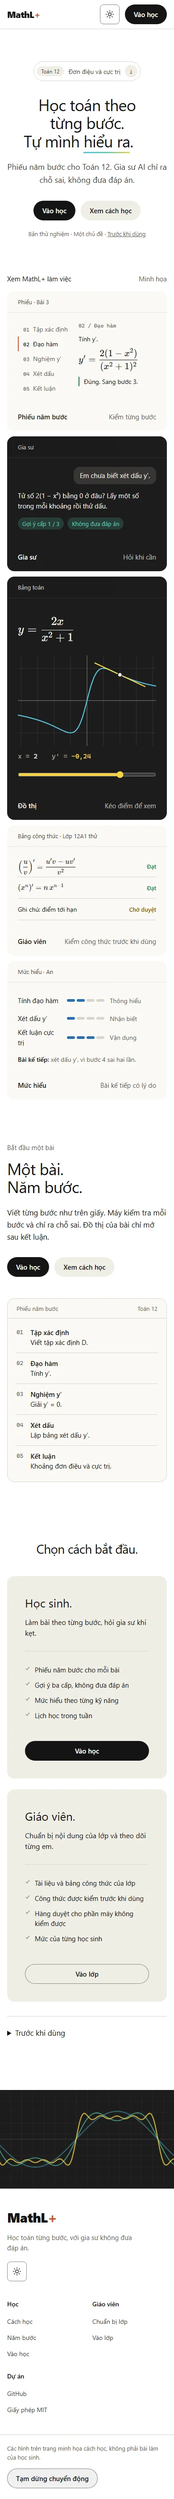
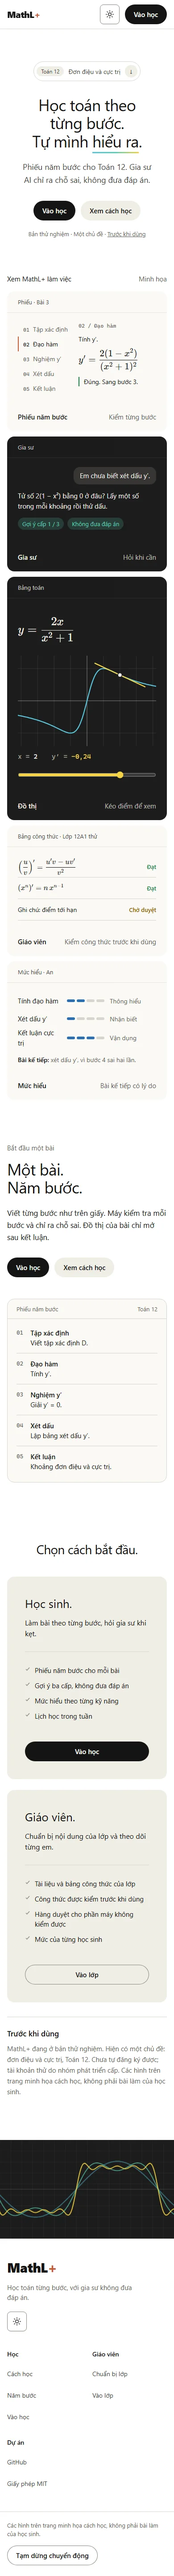
fix(frontend): trang công khai — từ xoay căn giữa không chồng chữ, neo dưới thanh trên, nút tạm dừng đúng màu
Theo lượt kiểm độc lập trên 45dcf62 (PASS+NOTES):
- Từ xoay: ô rộng bằng từ đang hiện (đo sau mỗi lần vẽ và khi cỡ chữ đổi), co giãn
  400 ms; từ cũ mờ 180 ms rồi từ mới hiện sau 160 ms. Đo 160 mẫu: lệch tâm 0 px lúc
  đứng yên, không mẫu nào hai từ cùng hiện (trước: 14 / 258, lệch tới 34 px).
- `scroll-padding-top` cho trang `/`: #xem, #nam-buoc, #chon đáp dưới thanh trên;
  «Trước khi dùng» là đoạn hiện sẵn thay cho `details` đóng.
- `.vien` đặt `background: none`: nút «Tạm dừng chuyển động» hết là nút xám mặc định
  (chữ tối 4,34 : 1 trước đó).
- Liên kết chân trang cao 44 px; mô tả mở đầu ngắt dòng cân.
- Chữ đúng sản phẩm: «Chưa tự đăng ký được; tài khoản thử do nhóm phát triển cấp».
- DESIGN.md «Trang công khai» và ngoại lệ nút viên, apps/frontend/AGENTS.md ghi theo
  trang mới, để agent sau không làm ngược lại.
- Test mới: giảm chuyển động thì từ đứng yên từ đầu. Vitest 84/84.

Claude-Session: https://claude.ai/code/session_01F11cT1CrYCuKSfz35MhcrX

diff --git a/apps/frontend/src/app/features/trang-chu/trang-chu.ts b/apps/frontend/src/app/features/trang-chu/trang-chu.ts
@@ -1,4 +1,4 @@
-import { Component, computed, DestroyRef, effect, inject, signal } from '@angular/core';
+import { afterRenderEffect, Component, computed, DestroyRef, effect, ElementRef, inject, signal, viewChild } from '@angular/core';
 import { RouterLink } from '@angular/router';
 import { BrandMark } from '../../shared/ui/brand-mark';
 import { DoiGiaoDien } from '../../shared/ui/doi-giao-dien';
@@ -29,6 +29,10 @@ export class TrangChu {
     typeof matchMedia === 'function' && matchMedia('(prefers-reduced-motion: reduce)').matches,
   );
   protected readonly chay = computed(() => !this.tamDung() && !this.giamChuyenDong());
+  /** Bề ngang ô từ xoay = bề ngang từ đang hiện, để dòng luôn căn giữa; null trước lần đo đầu (ô rộng bằng từ dài nhất). */
+  protected readonly rongTu = signal<number | null>(null);
+  private readonly xoay = viewChild.required<ElementRef<HTMLElement>>('xoay');
+  private readonly coChu = signal(0);
 
   constructor() {
     if (typeof matchMedia === 'function') {
@@ -36,6 +40,17 @@ export class TrangChu {
       const nghe = (e: MediaQueryListEvent) => this.giamChuyenDong.set(e.matches);
       mq.addEventListener('change', nghe);
       inject(DestroyRef).onDestroy(() => mq.removeEventListener('change', nghe));
+    }
+    afterRenderEffect(() => {
+      this.coChu();
+      const tu = this.xoay().nativeElement.querySelectorAll<HTMLElement>(':scope > span')[this.viTri()];
+      if (tu?.scrollWidth) this.rongTu.set(tu.scrollWidth);
+    });
+    // Cỡ chữ tiêu đề theo bề ngang màn (clamp): màn đổi cỡ thì đo lại. jsdom (test) không có ResizeObserver.
+    if (typeof ResizeObserver === 'function') {
+      const quanSat = new ResizeObserver(() => this.coChu.update((n) => n + 1));
+      afterRenderEffect(() => quanSat.observe(this.xoay().nativeElement.parentElement!));
+      inject(DestroyRef).onDestroy(() => quanSat.disconnect());
     }
     effect((onCleanup) => {
       if (!this.chay()) return;

diff --git a/apps/frontend/src/app/features/trang-chu/phan-bat-dau.ts b/apps/frontend/src/app/features/trang-chu/phan-bat-dau.ts
@@ -12,7 +12,7 @@ const NAM_BUOC = [
 
 /**
  * Nửa dưới trang công khai theo trang Wiii (meiiie-design-kit, examples/wiii): «Bắt đầu» (chữ trái, thẻ năm bước phải),
- * «Chọn cách bắt đầu» (hai thẻ kem cho học sinh và giáo viên), «Trước khi dùng» (giới hạn của bản thử).
+ * «Chọn cách bắt đầu» (hai thẻ kem cho học sinh và giáo viên), «Trước khi dùng» (giới hạn của bản thử, hiện sẵn để liên kết ở đầu trang dẫn tới đúng chỗ).
  */
 @Component({
   selector: 'app-phan-bat-dau',
@@ -69,13 +69,13 @@ const NAM_BUOC = [
           <a class="vien vien-vien" routerLink="/dang-nhap">Vào lớp</a>
         </article>
       </div>
-      <details id="truoc-khi-dung">
-        <summary>Trước khi dùng</summary>
+      <div id="truoc-khi-dung" class="truoc">
+        <h3>Trước khi dùng</h3>
         <p>
-          MathL+ đang ở bản thử nghiệm. Hiện có một chủ đề: đơn điệu và cực trị, Toán 12. Tài khoản do thầy cô cấp cho
-          lớp. Các hình trên trang minh họa cách học, không phải bài làm của học sinh.
+          MathL+ đang ở bản thử nghiệm. Hiện có một chủ đề: đơn điệu và cực trị, Toán 12. Chưa tự đăng ký được; tài
+          khoản thử do nhóm phát triển cấp. Các hình trên trang minh họa cách học, không phải bài làm của học sinh.
         </p>
-      </details>
+      </div>
     </section>
   `,
   styleUrl: './phan-bat-dau.css',

diff --git a/apps/frontend/src/app/features/trang-chu/trang-chu.css b/apps/frontend/src/app/features/trang-chu/trang-chu.css
@@ -114,10 +114,11 @@ h1 {
   text-wrap: balance;
 }
 
-/* Mọi từ (kèm dấu chấm) chồng trong một ô lưới, bám trái: bề ngang là của từ dài nhất nên đổi từ không làm dòng
-   nhảy; vạch màu Manim chỉ nằm dưới chữ của từ đang hiện. */
+/* Mọi từ (kèm dấu chấm) chồng trong một ô lưới, bám trái. Bề ngang ô đặt bằng từ đang hiện (đo ở TrangChu) và co
+   giãn mượt như trang Wiii, nên dòng luôn căn giữa. Từ cũ mờ đi trước, từ mới hiện sau, không chồng nhau. */
 .xoay {
   display: inline-grid;
+  transition: width 400ms var(--ease);
 }
 
 .xoay > span {
@@ -125,14 +126,17 @@ h1 {
   justify-self: start;
   opacity: 0;
   transform: translateY(0.3em);
+  white-space: nowrap;
   transition:
-    opacity 400ms var(--ease),
-    transform 400ms var(--ease);
+    opacity 180ms var(--ease),
+    transform 180ms var(--ease);
 }
 
 .xoay > span.hien {
   opacity: 1;
   transform: none;
+  transition-duration: 400ms;
+  transition-delay: 160ms;
 }
 
 .gach {
@@ -143,6 +147,7 @@ h1 {
 .mo-ta {
   max-width: 34rem;
   margin: 24px auto 0;
+  text-wrap: balance;
   color: var(--ink-2);
   font-size: 18px;
   line-height: 29px;
@@ -209,7 +214,7 @@ h1 {
 .cot a {
   display: inline-flex;
   align-items: center;
-  min-height: 32px;
+  min-height: var(--target);
 }
 
 .chan-duoi {

diff --git a/apps/frontend/src/app/features/trang-chu/trang-chu.spec.ts b/apps/frontend/src/app/features/trang-chu/trang-chu.spec.ts
@@ -10,7 +10,10 @@ function chuDoc(el: Element): string {
 }
 
 describe('TrangChu', () => {
-  afterEach(() => vi.useRealTimers());
+  afterEach(() => {
+    vi.useRealTimers();
+    vi.unstubAllGlobals();
+  });
 
   async function mo() {
     TestBed.configureTestingModule({ providers: [provideRouter([])] });
@@ -48,5 +51,19 @@ describe('TrangChu', () => {
     vi.advanceTimersByTime(2800 * 3);
     await t.fixture.whenStable();
     expect(t.tuDangHien()).toBe('làm được');
+  });
+
+  it('máy đặt giảm chuyển động: từ đứng yên từ đầu, dải bảng dừng', async () => {
+    vi.stubGlobal('matchMedia', (q: string) => ({
+      matches: q.includes('prefers-reduced-motion'),
+      addEventListener: () => undefined,
+      removeEventListener: () => undefined,
+    }));
+    vi.useFakeTimers({ toFake: ['setInterval', 'clearInterval'] });
+    const t = await mo();
+    vi.advanceTimersByTime(2800 * 2);
+    await t.fixture.whenStable();
+    expect(t.tuDangHien()).toBe('hiểu ra');
+    expect(t.el.querySelector('app-dai-bang')!.classList).toContain('dung');
   });
 });

diff --git a/apps/frontend/src/styles.css b/apps/frontend/src/styles.css
@@ -100,6 +100,11 @@ html.co-thanh-tren {
   scroll-padding-top: calc(48px + env(safe-area-inset-top) + var(--space-2));
 }
 
+/* Trang công khai: thanh trên dính cao 64 px; liên kết trong trang (#xem, #nam-buoc…) đáp xuống dưới thanh. */
+html:has(app-trang-chu) {
+  scroll-padding-top: calc(64px + var(--space-4));
+}
+
 html.khoa-cuon {
   overflow: hidden;
 }
@@ -231,6 +236,8 @@ body {
   padding: 0 20px;
   border: 0;
   border-radius: 999px;
+  background: none;
+  color: inherit;
   font: inherit;
   font-size: 15px;
   font-weight: 500;

diff --git a/apps/frontend/src/app/features/trang-chu/trang-chu.html b/apps/frontend/src/app/features/trang-chu/trang-chu.html
@@ -22,7 +22,7 @@
       <span class="dong">Học toán theo từng bước. </span>
       <span class="dong"
         >Tự mình <span class="sr-only">{{ dongTu[0] }}.</span
-        ><span class="xoay" aria-hidden="true">
+        ><span #xoay class="xoay" aria-hidden="true" [style.width.px]="rongTu()">
           @for (t of dongTu; track t; let i = $index) {
             <span [class.hien]="i === viTri()"><span class="gach">{{ t }}</span>.</span>
           }

diff --git a/apps/frontend/src/app/features/trang-chu/phan-bat-dau.css b/apps/frontend/src/app/features/trang-chu/phan-bat-dau.css
@@ -145,19 +145,18 @@ article .vien {
   width: 100%;
 }
 
-details {
+.truoc {
   margin-top: 32px;
   padding-top: 24px;
   border-top: 1px solid var(--line);
 }
 
-summary {
-  min-height: var(--target);
+.truoc h3 {
   font-size: 17px;
-  cursor: pointer;
+  font-weight: 600;
 }
 
-details p {
+.truoc p {
   max-width: 42rem;
   margin: 8px 0 0;
   color: var(--muted);

diff --git a/apps/frontend/AGENTS.md b/apps/frontend/AGENTS.md
@@ -25,7 +25,7 @@ Cả hệ v2 trong Docker: `docker compose -f compose.v2.yaml up --build --wait`
 | `src/app/api/` | Kiểu khớp DTO của `services/core`: `auth.ts` (người dùng, phiên, endpoint, header chống CSRF); `hoc-sinh.ts`, `giao-vien.ts` theo `contracts/api-core.md` (core chưa có các endpoint này; trường hợp đồng chưa định nghĩa để `unknown`) |
 | `src/app/core/` | Việc toàn ứng dụng: `TieuDeTrang` (tab `<trang> · MathL+`); `GiaoDien` (chế độ sáng / tối: chưa chọn thì theo `prefers-color-scheme`, bấm thì nhớ ở `localStorage` khóa `mathl-giao-dien`; ghi `data-theme` lên `<html>`) |
 | `src/app/core/auth/` | `Phien` (access token trong bộ nhớ, refresh token trong cookie HttpOnly, làm mới một luồng qua Web Locks), `xacThucInterceptor` (Bearer, 401 → làm mới một lần), guard `chiVaiTro`, `chuaDangNhap`; `phien.testing.ts` là `PhienGia` cho test |
-| `src/app/features/<tính-năng>/` | Màn theo tính năng: `dang-nhap` (hai bước email → mật khẩu), `hoc-sinh` (`/hs` «Chào <tên>»), `giao-vien` (`/gv`, chưa có API lớp nên «Chưa có lớp») |
+| `src/app/features/<tính-năng>/` | Màn theo tính năng: `trang-chu` (`/` công khai theo trang Wiii: từ xoay, thẻ cảnh, đồ thị kéo được, dải Fourier, nút tạm dừng chuyển động), `dang-nhap` (hai bước email → mật khẩu), `hoc-sinh` (`/hs` «Chào <tên>»), `giao-vien` (`/gv`, chưa có API lớp nên «Chưa có lớp») |
 | `src/app/shared/ui/` | Nguyên thủy: `appButton` (giải phẫu nút), `app-brand-mark` (chữ hiệu «MathL+» đậm 800, «+» theo `--brand-plus`; cỡ `sm` / `md` / `lg`), `app-bieu-tuong` (nét Lucide chép nguyên văn), `app-doi-giao-dien` (nút bật tắt giao diện tối, `aria-pressed`, `doi-giao-dien`) |
 | `src/app/shared/layout/` | `app-khung-trang`: desktop là thanh bên 260 px nền `--wash` (mục đang mở: nền nhạt `--accent`, vạch trái 3 px; chân: chữ đầu tên, tên, Đăng xuất), nút đổi giao diện ở góc phải trên; dưới `lg` là thanh trên (menu, chữ hiệu, đổi giao diện, Đăng xuất) + ngăn kéo (`mo-sidebar`, `dong-sidebar`). Ngăn kéo là hộp thoại: đóng thì `inert`; mở thì phần còn lại của trang `inert` và khóa cuộn; Esc, nền, nút đóng trả tiêu điểm về nút mở; chọn mục thì đóng ngay và đưa tiêu điểm vào `#noi-dung`. Vùng `aria-live` (`thong-bao-trang`) đọc tiêu đề trang mới. Một nút `dang-xuat` trong DOM; phiên mất thì về `/dang-nhap`. `dieu-huong.ts`: mục ray và `nav-*` chép từ v0. `TrangCho`: trang con chưa có dữ liệu |
 | `src/app/shared/toan/` | `app-katex` (`throwOnError: false` với chữ lỗi màu `--muted`, `trust: false`; `khoi` căn trái, `bang` là tấm bảng tối 3b1b căn giữa; đang cuộn ngang thì nhận Tab); `app-o-cong-thuc`: ô công thức cho Signal Forms như `MathInput` của v0 — `math-field` (MathLive nạp lười, tắt menu) và ô gõ bằng bàn phím luôn có, dòng «Máy hiểu là»; `data-testid` `<testId>` / `mf-<testId>` / `hieu-<testId>` |
@@ -39,7 +39,7 @@ Cả hệ v2 trong Docker: `docker compose -f compose.v2.yaml up --build --wait`
 - Không bọc `app-o-cong-thuc` trong `<label>` (ô tự vẽ nhãn): bọc `<label>` làm mất phím đầu trên máy chạm (v0 phải vá). Không gán `value` vào `<math-field>` trước khi MathLive nạp xong: thuộc tính riêng che getter của MathLive.
 - `KhungTrang` đặt lớp trên `<html>`: `co-thanh-tren` (màn hẹp, `styles.css` chừa `scroll-padding-top` cho thanh dính) và `khoa-cuon` (ngăn kéo mở).
 - Phông giao diện là chồng phông hệ thống (`--font-sans`, như Wiii): không tải phông, không CDN. KaTeX tự host qua `katex.min.css` trong `angular.json` → `styles`. Phông MathLive cũng tự host: `angular.json` chép `node_modules/mathlive/fonts` ra `/mathlive/fonts`, `napMathLive()` đặt `fontsDirectory` về đó và tắt âm thanh. Test thay cách nạp qua token `NAP_MATHLIVE`.
-- Nút luôn qua `appButton` trên phần tử gốc (`<button appButton>`), không tự đặt lớp `.btn`. Nút chỉ có biểu tượng dùng lớp `.nut-icon` (44 px) và luôn có `aria-label`. Vòng tiêu điểm vẽ ra ngoài cách 2 px, trừ trong thanh trên `.thanh-tren` và nút trong ô nhập `.nut-trong-o`: hai chỗ đó vẽ vào trong.
+- Nút luôn qua `appButton` trên phần tử gốc (`<button appButton>`), không tự đặt lớp `.btn`; ngoại lệ duy nhất là trang công khai `/` (`features/trang-chu/`) dùng nút viên `.vien*` theo trang Wiii. Nút chỉ có biểu tượng dùng lớp `.nut-icon` (44 px) và luôn có `aria-label`. Vòng tiêu điểm vẽ ra ngoài cách 2 px, trừ trong thanh trên `.thanh-tren` và nút trong ô nhập `.nut-trong-o`: hai chỗ đó vẽ vào trong.
 - `data-theme` trên `<html>` luôn có giá trị (`light` / `dark`): script đầu `src/index.html` đặt trước lần vẽ đầu, `GiaoDien` giữ đồng bộ. Đổi khóa hay luật thì sửa cả hai chỗ. Nếu sau này CSP chặn script nội tuyến, trang chớp chế độ sáng tới khi Angular chạy. CSS toàn cục chặn vẽ (`inlineCritical: false` trong `angular.json`): CSS chậm thì trang chưa vẽ gì cho tới khi CSS về, khung đầu đã đúng chế độ. Đừng bật lại CSS trọng yếu nội tuyến: phần nội tuyến chỉ có token sáng nên chế độ tối sẽ chớp sáng.
 - Vùng toán luôn là bảng tối (`--board*`) ở cả hai chế độ; màu Manim `--m-*` chỉ dùng trên bảng. Chữ trên nền trang dùng `--ink` / `--ink-2` / `--muted` / `--label`; viền ô nhập, nút phụ là `--line-strong` (`--line` chỉ để kẻ chia, dưới 3 : 1). Vòng focus là `--focus`, không `--accent` (trên `--raise` tối chỉ 2,99 : 1). Kẻ mang nghĩa trên bảng (bảng xét dấu) là `--board-rule`; `--board-line` chỉ trang trí.
 - Style của `khung-trang.ts` sát ngân sách 4 kB mỗi component (`angular.json`): thêm style cho khung thì đưa nguyên thủy dùng chung sang `styles.css`.
